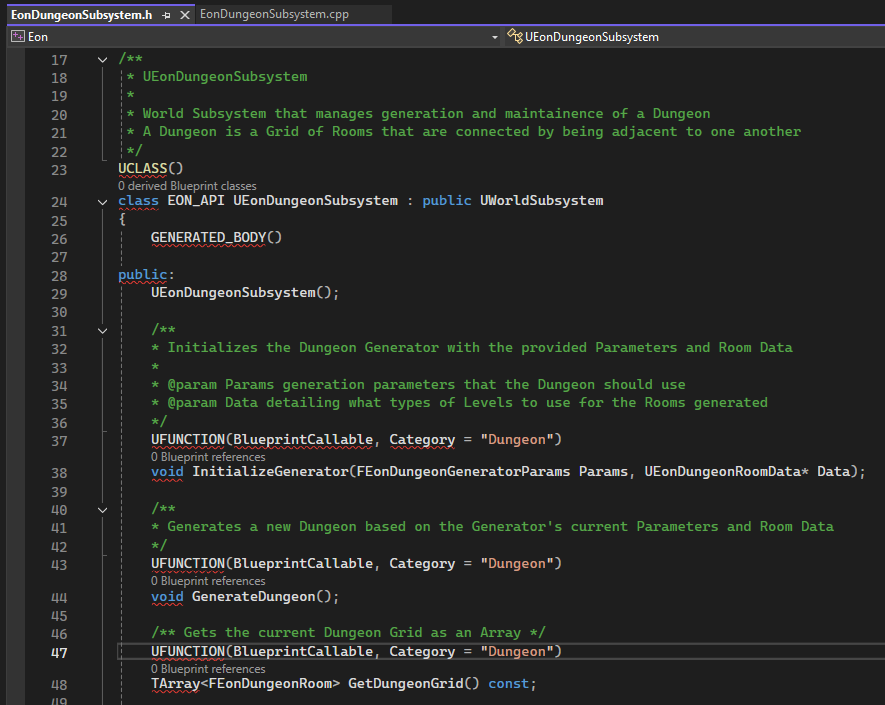
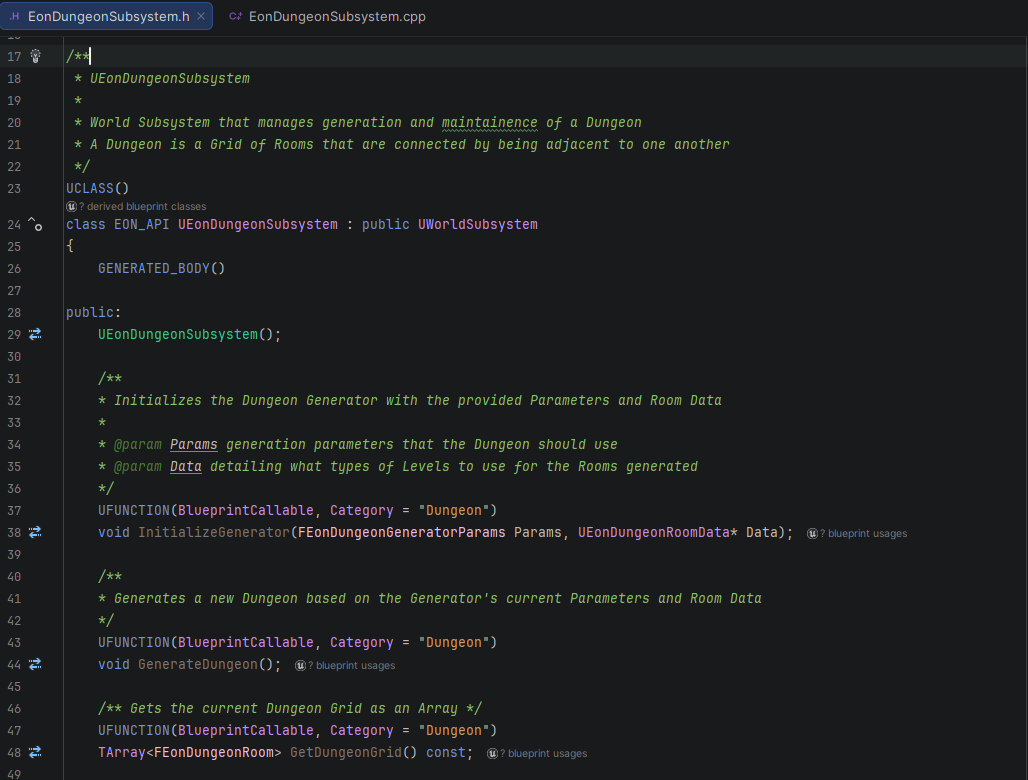
Updated Project Eon and Ivorfall Pages
Added more content about Project Eon
Described the Dungeon Generator and Inventory Item System
Fixed typos found on Ivorfall

Changed region(s): [[0.0, 0.0, 1.0, 1.0], [0.8237, 0.7177, 0.9458, 0.7489], [0.8237, 0.156, 0.8847, 0.2184]]

diff --git a/src/pages/Ivorfall.jsx b/src/pages/Ivorfall.jsx
@@ -17,8 +17,13 @@ const Ivorfall = () => {
 
       <p>
         Ivorfall is a EAE Capstone project at the University of Utah for the year 2023-2024.
+      </p>
+      <p>
         Ivorfall is a isometric twinstick roguelike shooter where you play as a trigger happy detective trying to solve a mystery set in a steampunk city.
         The gameplay is inspired by games like Hades, RUINER, and Doom.
+      </p>
+
+      <p>
         The prototype that was made in 2 weeks with a team of 13 in order to demonstrate the capabilities of both the team and prove the game's concept to the professors and an industry panel.
         This was 1 of 16 prototypes where only 8 of them would be greenlit for full production for the rest of the school year.
         Upon being greenlit for begin full production, the team's size doubled to 26.
@@ -28,7 +33,7 @@ const Ivorfall = () => {
         I loved my time on Ivorfall, particularly working on the Weapon Modification System.
         This system was central to the gameplay experience in Ivorfall.
         Players constantly picked up different modifications, making it a key part of the gameplay loop.
-        Designers had a greate time creating fun and unique combinations that made players feel powerful sometimes too powerful.
+        Designers had a great time creating fun and unique combinations that made players feel powerful sometimes too powerful.
         The full school year of development allowed me and the team to refine and polish both the gameplay mechanics and the underlying implementation.
         The prototype for the system was assembled and functional, but wasn't ready for further expansion at that stage.
       </p>
@@ -40,6 +45,9 @@ const Ivorfall = () => {
         However, during the first few playtests, players felt like the modifications (mods) were too tedious to pick up and lacked impact.
         Design and Programming got together to discuss redesigning the system to provide a better sense of power for the player.
         We ultimately decided to go with a two-mod class design: Primary and Secondary.
+      </p>
+
+      <p>
         A Primary class mod function like a barrel modification, permanently altering how the weapon fired.
         A Secondary class mod would be more akin to ammo/bullets, such as oil pellets, electricity, and rockets.
         Implementing this design was relatively straightforward due to the separation.
@@ -48,12 +56,12 @@ const Ivorfall = () => {
       </p>
 
       <p>
-        We had biweekly playtests with the rest of the Capstone class for the school year, during which we received continous feedback on the game.
+        We had biweekly playtests with the rest of the Capstone class for the school year, during which we received continuous feedback on the game.
         Based on this feedback and footage of players interacting with the game, it became clear that the mods still lacked impact.
         Players weren't immediately drawn to the mods, as they seemed to be a nice addition rather than a necessity.
         The team wanted mods to feel more powerful and sometimes a must have.
         Design proposed an idea: what if each unique pairing of a Primary and Secondary mod gave the weapon an entirely different behavior?
-        This approach was eventaully adopted and shipped with the game.
+        This approach was eventually adopted and shipped with the game.
         Primary Mods effectively became distinct weapon types, while Secondary Mods in combination with a Primary Mod, altered not only the projectile but also its firing mechanics and additional effects.
       </p>
 
@@ -70,7 +78,7 @@ const Ivorfall = () => {
         For example the flamethrower combination is sweeping the area where the fire is supposed to be on an interval for targets.
         If targets are found then raycasts are sent out to each target to ensure the player does not applying damage through walls.
         The oil artillery shot is spawning a projectile that follows a parabolic trajectory and upon impact activates a sphere used for collisions waiting for overlap events.
-        Upon receiving an overlap event it will apply a slowing damage effect to the target for as long as it is overlaping the oil.
+        Upon receiving an overlap event it will apply a slowing damage effect to the target for as long as it is overlapping the oil.
         As a Lead on the project, I was the main programmer responsible for implementing the mods system above.
         I also taught other programmers and designers on how to use the system and create new combinations.
       </p>
@@ -90,12 +98,15 @@ const Ivorfall = () => {
         Before this system was created combat in the game was a free for all. As soon as any enemy got close they would start attacking.
         This proved to be challenging for the player and they would become easily overwhelmed as more enemies spawned in.
         We wanted to have ways to tune the combat and have it be more manageable without having to spawn less enemies because we liked the horde aspects that we had.
-        I started looking at other games espically very combat/enemy heavy focused games. Games like: Spider-Man, God of War, Devil May Cry, Vampire Survivors, Hollow Knight, and list goes on for awhile.
+      </p>
+
+      <p>
+        I started looking at other games especially very combat/enemy heavy focused games. Games like: Spider-Man, God of War, Devil May Cry, Vampire Survivors, Hollow Knight, and list goes on for awhile.
         During my research, I came across two very useful GDC talks from the teams at Insomniac Games and Sony Santa Monica.
         In both of these talks they went into depth about the Combat Systems and their process doing what they did in Spider-Man (2018) and God of War (2018).
         In the Insomniac talk the presenter showcased a clip of their Combat Manager turned off, and it was exactly like how Ivorfall was currently playing out.
         Just chaos and no flow even for a superhero character like Spider-Man which isn't what happens in the real game.
-        I showed this clip to the other programmers on my team and they felt like a smiliar system was doable for our game.
+        I showed this clip to the other programmers on my team and they felt like a simliar system was doable for our game.
         From here we needed to understand what is going on with the combat. I setup a meeting with programmers and designers to discuss the flow of combat.
         How fast did we want it? Do we want peaks and valleys or have it at a constant rate? 
         Understanding what were the requirements of the system and how could it be tunable down the road.
@@ -119,7 +130,7 @@ const Ivorfall = () => {
         The tokens needed to be in a global space where any enemy could attempt to access them. This is where an Unreal Subsystem became very useful that was dedicated to this.
         The initial token pool had to have a starting amount otherwise enemies would never attack
         I initially was thinking about implementing a token pool size that could change between levels but the team suggested I didn't do this.
-        As there weren't a lot of levels and we didn't want combat feeling different per level either. I opted for this to be setable from a config file and not hardcoded.
+        As there weren't a lot of levels and we didn't want combat feeling different per level either. I opted for this to be settable from a config file and not hardcoded.
       </p>
     </PageLayout>
   )

diff --git a/src/pages/ProjectEon.jsx b/src/pages/ProjectEon.jsx
@@ -4,7 +4,7 @@ import PageLayout from '../layout/PageLayout'
 import ProjectHeader from '../components/Project/ProjectHeader'
 import ResponsiveDrivePlayer from '../components/Responsive/ResponsiveDrivePlayer'
 import VideoGallery from '../components/VideoGallery/VideoGallery'
-import dungeon_images from '../assets/projects/projecteon/ProjectEon_Images'
+import { dungeon_images, inventory_images } from '../assets/projects/projecteon/ProjectEon_Images'
 
 const ProjectEon = () => {
   return (
@@ -13,30 +13,67 @@ const ProjectEon = () => {
       <ResponsiveDrivePlayer url="https://drive.google.com/file/d/1PJIV-VF8WV4iy8LdJx8csiQeP1GuRdKH/preview"/>
       
       <p>
-        Project Eon is a Character Action Dungeon Crawler where the player picks a hero from a cast of characters ranging across time in order to save the universe.
-        This project is inspired by games like League of Legends, Super Smash Bros, Hades, and Enter the Gungeon where it has unique Heroes, gameplay altering items, and a procedurally generated dungeon.
+        Project Eon is a Character-Action Dungeon Crawler where the player chooses a hero from a cast of characters spanning different periods of time in order to save the universe.
+        This project is inspired by games such as League of Legends, Super Smash Bros, Hades, and Enter the Gungeon. It features unique Heroes, gameplay-altering items, and a procedurally generated dungeons.
       </p>
 
       <p>
-        The project currently uses placeholder Assets found on Unreal Engine marketplace specifically the Paragon character assets.
-        This is a prototype to test and ensure game mechanics are functional. The project is by no means finished and we are still working on it.
+        The project currently uses placeholder Assets found on Fab specifically the Paragon character assets.
+        This is a prototype designed to test and ensure game mechanics are functional. The project is by no means finished and we are still working on it.
       </p>
 
       <p>
-        I implemented the gameplay mechanics demonstrated by the character in the video above. For example the sword attack is sweeping a sphere continously as the sword moves to detect hits against enemies.
-        The sword slashing attack combines sweeping and physics where I add a large force to the character launching them in the direction they are trying to attack while continously sweeping a sphere around the character.
+        I implemented the gameplay mechanics demonstrated by the character in the video above. Making use of the Gameplay Ability System (GAS) which assisted in compartmentalization of actions via Abilities.
+        This helped provide consistent structure to the actions where everything had a start middle and end.
+      </p>
+      <p>
+        For example the sword attack would start off playing the animation. While the animation is playing, continously sweeps a sphere along the sword's movement path to detect hits against enemies. Once the animation is over the action ends with it.
+      </p>
+      <p>
+        The sword-slash attack also follows the pattern but combines hit detection with physics. When the attack is performed, I play the animation and apply a large force to the character lauching them in the direction of the attack. While the character is still moving, I continously sweeping a sphere around the character to detect enemies. The action is finished when the character finishes moving.
       </p>
 
       <VideoGallery items={dungeon_images}/>
 
       <p>
-        I worked on implementing a Procedural Dungeon Generator that generates a grid of Rooms that allows the Player to navigate through the Dungeon.
-        First focused my efforts on making sure that the generator was generating correctly before incorporating it with other game systems.
-        The Dungeon is connected and there is a path from 1 room to another which makes it an undirected graph.
-        First, I would pick a random starting room and from there pick a random valid direction until all rooms were generated.
-        If the selected direction would lead to a dead end then I would pick a random room from the generated list that was not completed where being completed means it is surrounded by a valid room or edge of the grid.
-        The Boss room would always be added last and ensuring that it would always be connected to the rest of the grid.
+        I worked on implementing a Procedural Dungeon Generator that generates a grid of Rooms, allowing the Player to navigate through the Dungeon.
+        First, I focused my efforts on ensuring that the generator was generating correctly before incorporating it with other game systems.
+        The Dungeon is fully connected, meaning there is a path from one room to another, making it an undirected graph.
       </p>
+
+      <p>
+        Features of the Generator
+        <ul>
+          <li>Data Assets are used to associate together what Levels are corresspond to which Room type.</li>
+          <li>Dungeons are generated with Parameters specifying its size and how many of each Room type to generate.</li>
+          <li>(Not implemented) Saving the generated Dungeon for loading purposes</li>
+          <li>(Not implemented) Having multiple Dungeons generated</li>
+        </ul>
+      </p>
+
+      <p>
+        Generator Algorithm
+        <ol>
+          <li>The generation algorithm begins by selecting a random starting room in the grid.</li>
+          <li>Afterwards it picks random valid direction where a potential room could be and repeats this until all rooms are generated.</li>
+          <li>If the selected direction would lead to a dead end, the generator selects a random room from the list of previously generated rooms that have not been completed yet. A room is considered completed when it is surrounded either by valid rooms or an edge of the grid.</li>
+          <li>The Boss room would always be added last, ensuring that it is connected to the rest of the dungeon.</li>
+        </ol>
+      </p>
+
+      <VideoGallery items={inventory_images}/>
+
+      <p>
+        Inventory Item System
+        <ul>
+          <li>Items are completely data driven. Only need to create a new Item Definition Data Asset and any GAS related Abilities/Effects</li>
+          <li>Inventory System is only to book keep what items are in the inventory. Only contains pointer references to Item Definitions</li>
+          <li>Item Definition makes use of Unreal's Asset Manager which means its a specific Asset that can be queried about without having to manually manage a giant table of Items</li>
+          <li>Item Actor represents in world version of the Item. Holds a pointer to the Item Definition which it then loads only the Actor portion when it needs to be seen and Gameplay during runtime.</li>
+          <li>Item Actor does not need to be blueprinted and only exists in C++ because it configures its Mesh based on the loaded Item Definition</li>
+        </ul>
+      </p>
+
     </PageLayout>
   )
 }

diff --git a/src/assets/projects/projecteon/ProjectEon_Images.js b/src/assets/projects/projecteon/ProjectEon_Images.js
@@ -3,8 +3,13 @@ import dungeon_blueprint from './Dungeon/ProjectEon_Dungeon_Blueprint.png'
 import dungeon_header from './Dungeon/ProjectEon_Dungeon_Header.png'
 import dungeon_cpp from './Dungeon/ProjectEon_Dungeon_CPP.png'
 import dungeon_generation from './Dungeon/ProjectEon_Dungeon_Generation.png'
+import inventory_design from './Inventory/ProjectEon_Inventory_Design.png'
+import inventory_itemdefinition from './Inventory/ProjectEon_Inventory_ItemDefinition.png'
+import inventory_items from './Inventory/ProjectEon_Inventory_Items.png'
+import inventory_itemactor_header from './Inventory/ProjectEon_Inventory_ItemActor_Header.png'
+import inventory_itemactor_cpp from './Inventory/ProjectEon_Inventory_ItemActor_CPP.png'
 
-const dungeon_images = [
+export const dungeon_images = [
     {
         original: dungeon_data,
         orignalHeight: "640px",
@@ -37,4 +42,41 @@ const dungeon_images = [
     },
 ]
 
-export default dungeon_images;
+export const inventory_images = [
+    {
+        original: inventory_design,
+        originalHeight: "640px",
+        description: "Design of the Item Inventory system",
+        type: "image"
+    },
+    {
+        original: inventory_itemdefinition,
+        originalHeight: "640px",
+        description: "Item Definition Data Asset immutable and can only be changed in the Editor",
+        type: "image"
+    },
+    {
+        original: inventory_items,
+        originalHeight: "640px",
+        description: "Items are managed by Unreal's Asset Manager where each Data Asset is a unique Item",
+        type: "image"
+    },
+    {
+        original: inventory_itemactor_header,
+        originalHeight: "640px",
+        description: "In world visual representation of the Item",
+        type: "image"
+    },
+    {
+        original: inventory_itemactor_cpp,
+        originalHeight: "640px",
+        description: "Unreal Asset Manager to load specific parts of the Item depending on the scenario",
+        type: "image"
+    },
+]
+
+const ProjectEon_Images = [
+
+]
+
+export default ProjectEon_Images;
